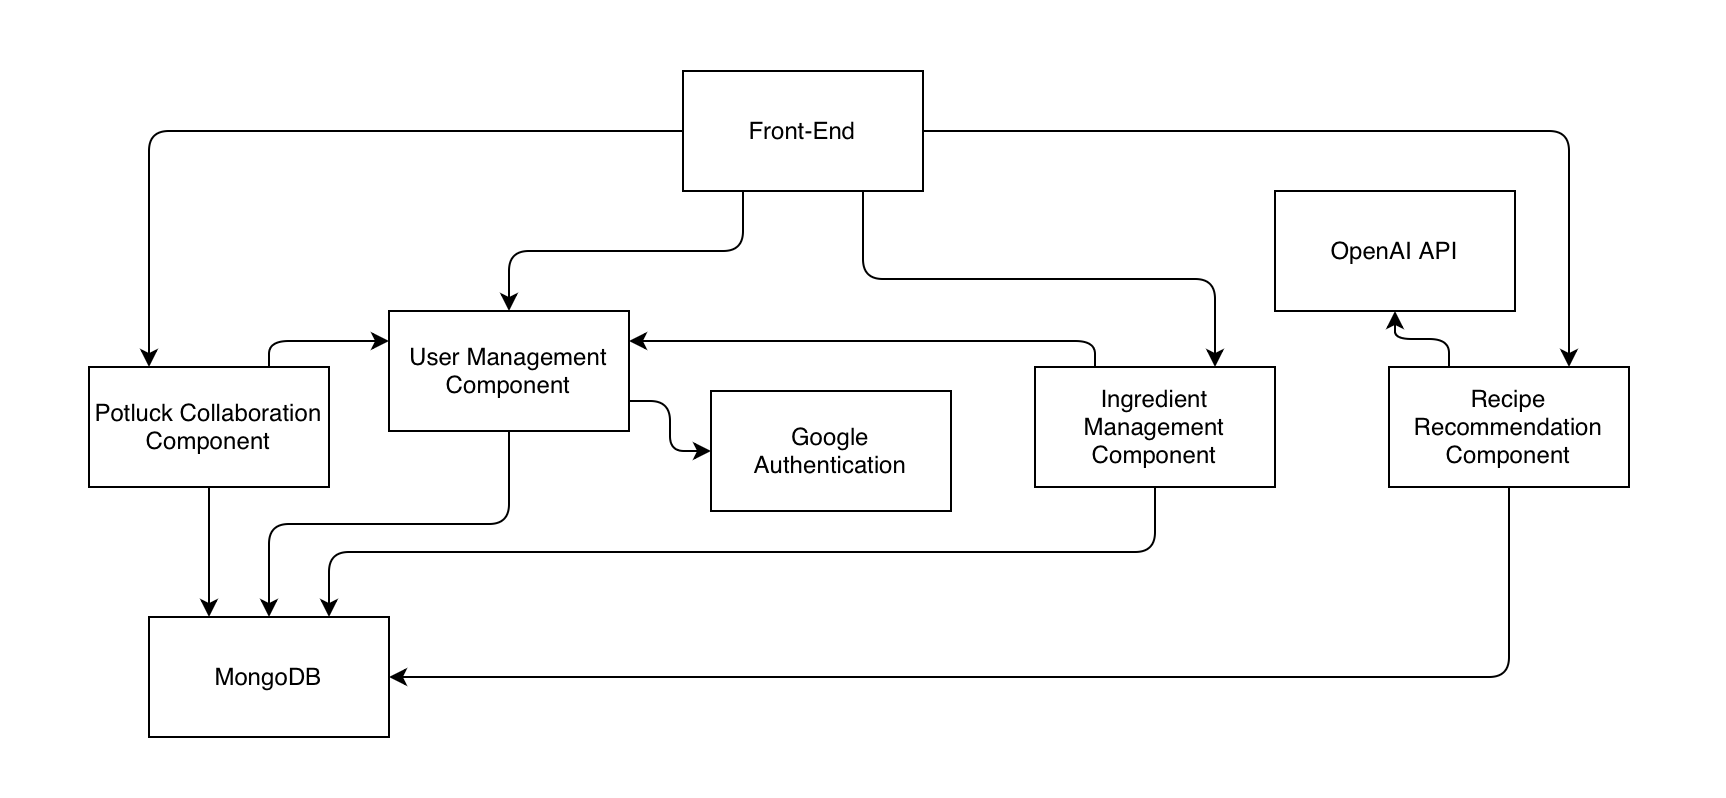
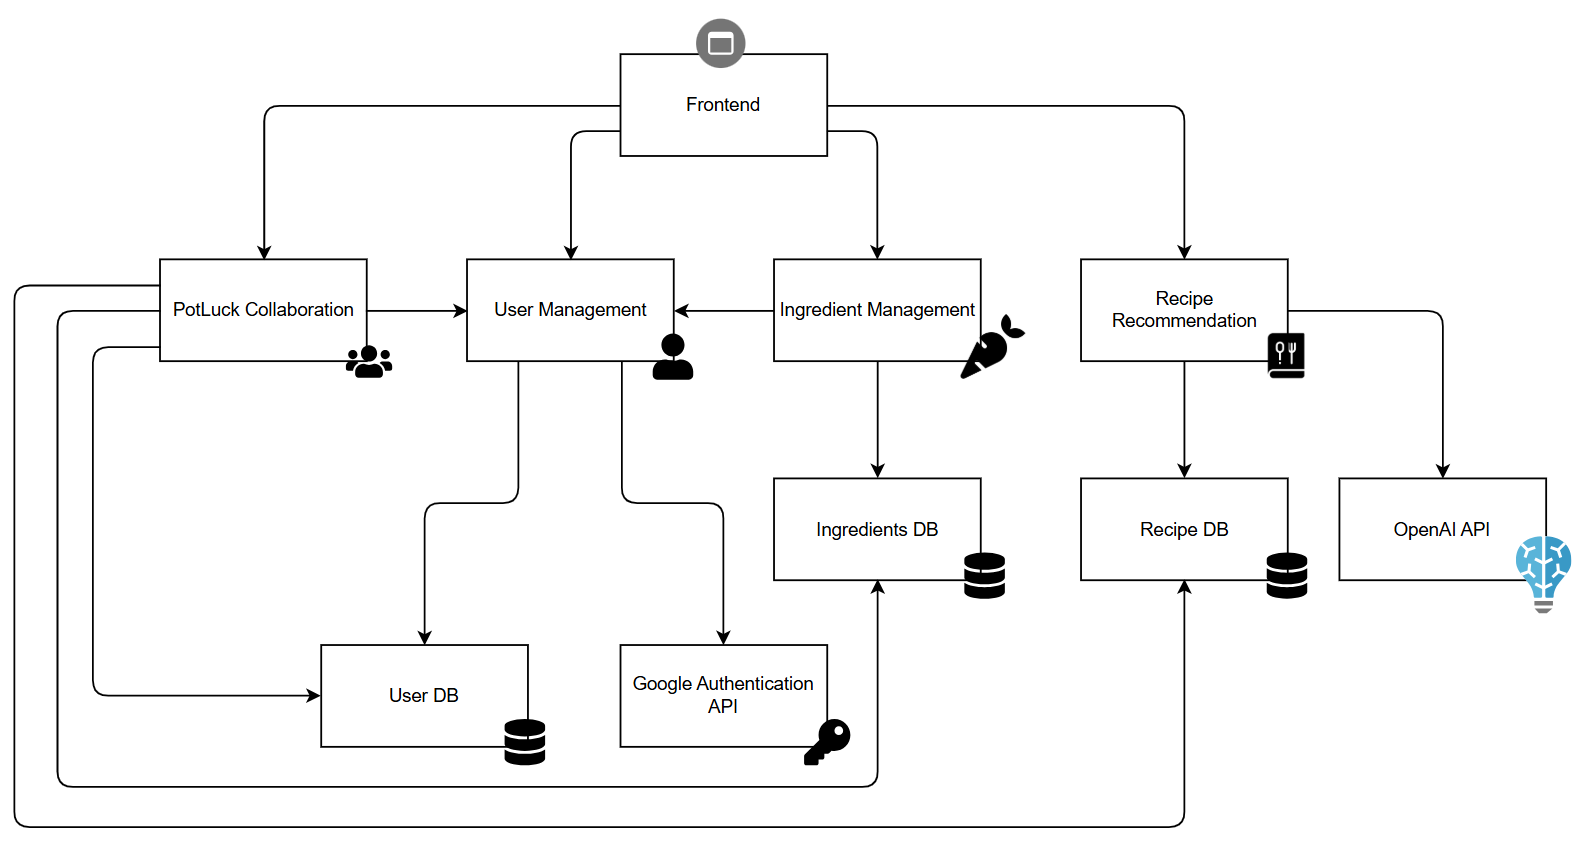
added sds and modified diagrams

diff --git a/documentation/M3_Requirements_and_Design.md b/documentation/M3_Requirements_and_Design.md
@@ -353,7 +353,7 @@ This is a screen mockup of what a user will see for the "Full Recipe Recommendat
 1. [**Log In**](#fr1)\
 ![UML_Use_Case_Diagram.png](images/sequence_log_in.png)
 2. [**Log Out**](#fr1)\
-[SEQUENCE_DIAGRAM_HERE]
+![UML_Use_Case_Diagram.png](images/sequence_log_out.png)
 3. [**Get Full Recipe Recommendation**](#fr1)\
 [SEQUENCE_DIAGRAM_HERE]
 4. [**Get Partial Recipe Recommendation**](#fr1)\
